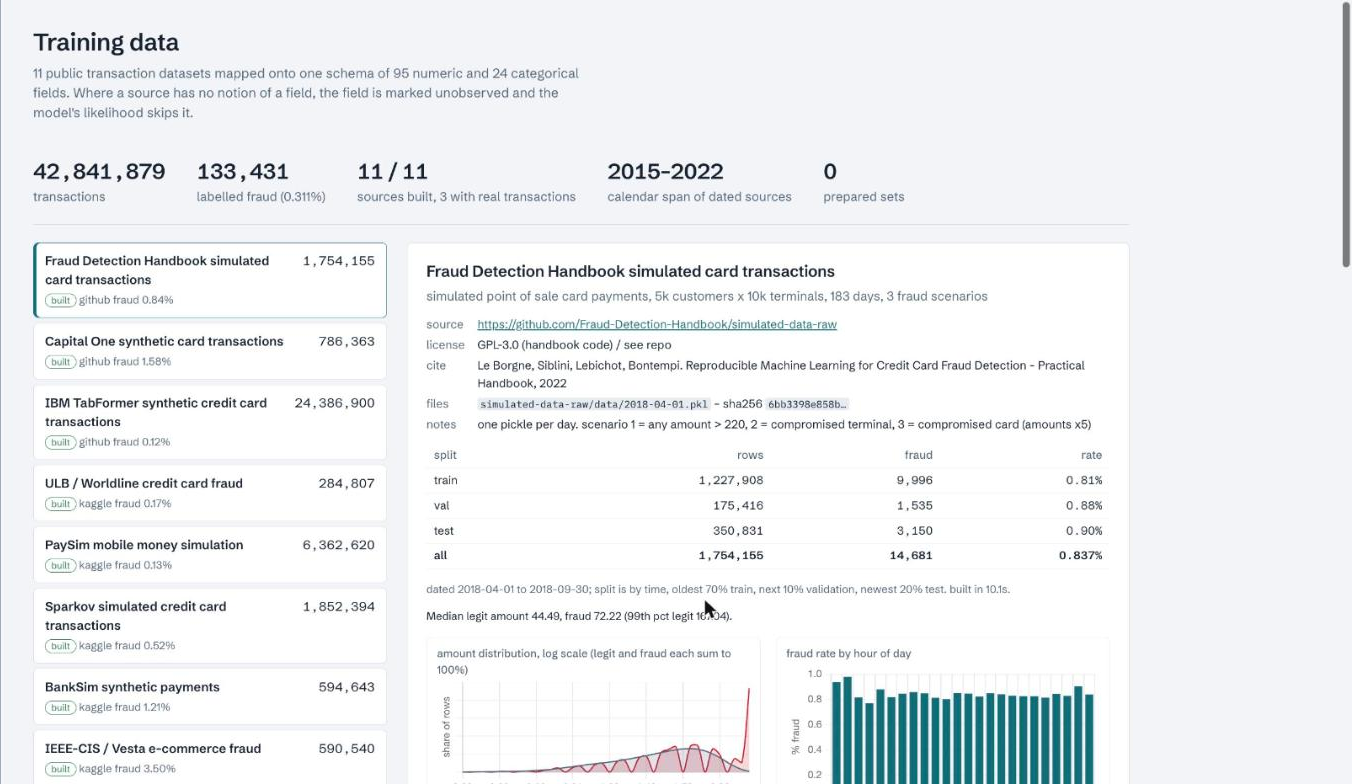
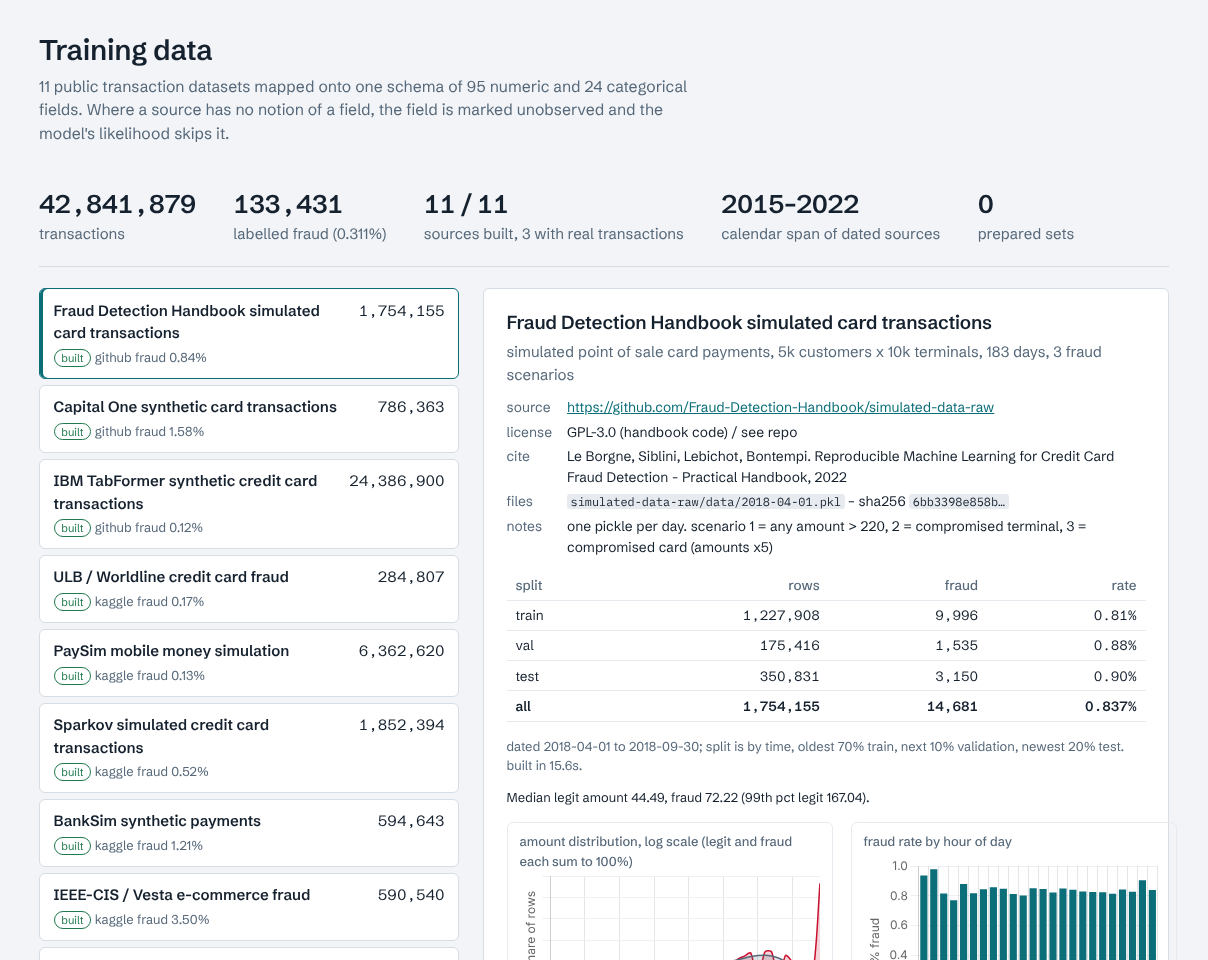
screenshots retaken; the story pages name the controls as the site does
The pictures in docs/img were from before the plain-language rewrite, the
glossary and the receipt wording; retaken against the current app, and the
results table captured whole rather than clipped by its scroll box. The story
pages referred to "Model generation", "Compare across generations" and the
"Model" and "Data" tabs, names the controls no longer carry.

diff --git a/fraudvae/web/story.html b/fraudvae/web/story.html
@@ -19,7 +19,7 @@
 </ol>
 
 <h2 id="s-start">1. What this site is</h2>
-<p>A demonstration. The <b>Score</b> tab takes one payment transaction - typed in, picked from the example rows, or uploaded as a CSV - and returns a probability of fraud with a receipt that says which fields drove it. The <b>Model generation</b> control on that tab picks which of the six trained generations does the scoring, and <b>Compare across generations</b> scores the same transaction on all of them at once, so the progress described below is something you can see on a single payment rather than take on trust. The <b>Model</b> tab shows each version's results and the timeline; <b>Data</b> describes the training data; <b>How it works</b> is the technical walk-through.</p>
+<p>A demonstration. The <b>Score a transaction</b> tab takes one payment transaction - typed in, picked from the example rows, or uploaded as a CSV - and returns a probability of fraud with a receipt that says which fields drove it. The <b>Model version</b> control on that tab picks which of the six trained generations does the scoring, and <b>Compare every version</b> scores the same transaction on all of them at once, so the progress described below is something you can see on a single payment rather than take on trust. The <b>Model &amp; training</b> tab shows each version's results and the timeline; <b>Training data</b> describes the training data; <b>How it works</b> is the technical walk-through.</p>
 <p>What the site does not do: it does not train, it does not build data, it keeps nothing a visitor sends (no transaction is stored, no customer history is remembered between requests), and scoring is rate-limited per visitor so one person cannot occupy the server. The repository does all of those things - the training pipeline, the data build, the remote-training tooling - and the <a href="#s-yourself">running it yourself</a> section says what that takes.</p>
 
 <h2 id="s-shape">2. The shape of the answer</h2>
@@ -50,7 +50,7 @@
     <tr><td>fraudecom</td><td>e-commerce first purchases with shared device ids</td><td>151k</td><td>9.4%</td><td>unspecified</td><td>no</td></tr>
   </tbody>
 </table>
-<p><b>None of the datasets is redistributed here.</b> The six sources whose licences allow it ship a few hundred labelled example rows from the held-out test split (with attribution and the licence text beside them, in <code>data/examples/</code> of the repository); that is what the example picker on the Score tab draws from, and because they are test rows, the receipt can say whether the model was right. All eleven are public: the GitHub-hosted ones need nothing, the Kaggle ones a free Kaggle account (IEEE-CIS additionally means joining its competition and accepting the rules), and Kaggle refuses some VPN exit addresses. The <b>Data</b> tab links to where each lives; <code>fraudvae fetch</code> in the repository downloads what it can (the GitHub-hosted ones directly, the Kaggle ones through the Kaggle API or a zip you drop in place) and then checks every file against the recorded size and checksum of the file the models were actually built from - the part that matters, because datasets get re-uploaded and re-cut, and a different edition builds fine and reproduces nothing. <code>fraudvae examples</code> then produces the same kind of example file from your own copy.</p>
+<p><b>None of the datasets is redistributed here.</b> The six sources whose licences allow it ship a few hundred labelled example rows from the held-out test split (with attribution and the licence text beside them, in <code>data/examples/</code> of the repository); that is what the example picker on the Score tab draws from, and because they are test rows, the receipt can say whether the model was right. All eleven are public: the GitHub-hosted ones need nothing, the Kaggle ones a free Kaggle account (IEEE-CIS additionally means joining its competition and accepting the rules), and Kaggle refuses some VPN exit addresses. The <b>Training data</b> tab links to where each lives; <code>fraudvae fetch</code> in the repository downloads what it can (the GitHub-hosted ones directly, the Kaggle ones through the Kaggle API or a zip you drop in place) and then checks every file against the recorded size and checksum of the file the models were actually built from - the part that matters, because datasets get re-uploaded and re-cut, and a different edition builds fine and reproduces nothing. <code>fraudvae examples</code> then produces the same kind of example file from your own copy.</p>
 
 <h2 id="s-generations">4. Generation by generation</h2>
 <p>The table is live - it is read from the runs present on this server - and the text underneath is the commentary. "Mean AUROC, 9 shared banks" is the like-for-like number across generations: the nine sources every generation since v4 was trained on. "Generic" is the score with the bank blanked, the number for an institution the model never saw.</p>

diff --git a/fraudvae/web/story_plain.html b/fraudvae/web/story_plain.html
@@ -18,7 +18,7 @@
 </ol>
 
 <h2 id="p-what">1. What you are looking at</h2>
-<p>A program that looks at one payment - an amount, a time of day, how it was paid, where, by whom - and says how likely it is to be fraud, with its reasons. It was built in six stages, and all six are here: on the <b>Score</b> tab you can pick which stage judges a transaction, or tick <b>Compare across generations</b> to see all six judge the same payment side by side. The newest one is marked as such, and it is the best one; the older ones are kept so you can see what changed.</p>
+<p>A program that looks at one payment - an amount, a time of day, how it was paid, where, by whom - and says how likely it is to be fraud, with its reasons. It was built in six stages, and all six are here: on the <b>Score a transaction</b> tab you can pick which stage judges a transaction, or tick <b>Compare every version</b> to see all six judge the same payment side by side. The newest one is marked as such, and it is the best one; the older ones are kept so you can see what changed.</p>
 <p>The site does not learn from anything you send and does not keep it. The number of transactions one visitor can score per minute is limited, so nobody can hog the server. Training new versions, which needs real computing power, happens in the repository on your own machine, not here.</p>
 
 <h2 id="p-idea">2. The idea</h2>
@@ -29,7 +29,7 @@
 
 <h2 id="p-data">3. The data</h2>
 <p>Banks do not publish their transactions, so the model was trained on eleven public datasets: two of them real, anonymised bank data (a European card issuer's two days from 2013; an e-commerce payment processor's six months), the rest realistic simulations built by researchers and companies for exactly this purpose. Together they are 42.8 million payments, of which about 133 thousand are labelled fraud - a third of one percent, which is roughly the real-world rate. Each dataset was translated into one common form (the same hundred-odd fields for every source, with "unknown" allowed where a dataset does not have a field), and each is treated as a separate "bank" the model knows by name. For each bank, the model learnt from the oldest 70% of its payments, tuned itself on the next 10%, and every number on this page is measured on the newest 20%, which it never saw during training - the fairest test, because fraud changes over time.</p>
-<p>The datasets themselves are not distributed here; each has its own licence. Six of them permit sharing small samples, and a few hundred payments from each of those six are the examples you can pick on the Score tab. All eleven are public - some need a free Kaggle account, one needs you to join a Kaggle competition first, and Kaggle turns away some VPN connections - and the <b>Data</b> tab says where each one lives. The repository has a command that fetches them and then checks each file against a recorded fingerprint, so you know the data you have is exactly the data the models were built from.</p>
+<p>The datasets themselves are not distributed here; each has its own licence. Six of them permit sharing small samples, and a few hundred payments from each of those six are the examples you can pick on the Score tab. All eleven are public - some need a free Kaggle account, one needs you to join a Kaggle competition first, and Kaggle turns away some VPN connections - and the <b>Training data</b> tab says where each one lives. The repository has a command that fetches them and then checks each file against a recorded fingerprint, so you know the data you have is exactly the data the models were built from.</p>
 
 <h2 id="p-steps">4. How it got better, step by step</h2>
 <p>The table is live - it lists the versions actually loaded on this server, with how long each took to train and on what. The text below says what each step changed. The main yardstick is <b>AUROC</b>, a score between 0.5 (coin flip) and 1.0 (perfect) that measures how well the model ranks fraud above legitimate payments; the "9 shared banks" column uses the same nine datasets for every version so the numbers are comparable.</p>

diff --git a/README.md b/README.md
@@ -256,7 +256,7 @@ summary as booster input, a longer VAE).
 
 Six trained generations are kept, so the model's progress is something you can score
 a transaction on rather than read about: the score tab's **Model generation** picker
-takes any of them and **Compare across generations** scores one transaction on all
+takes any of them and **Compare every version** scores one transaction on all
 six. The UI's development-process tab (and `docs/TRAINING_NOTES.md`) tells what changed at each step
 and what did not work; the model tab's timeline shows each one's hardware, training
 time and numbers.
